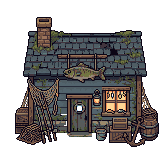
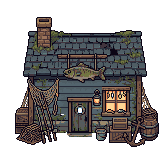
New blacksmith and two village houses from Rex; updated fishing shack picture
Houses on the back lane spaced so they clear the dirt road; the blacksmith nudged 3 px east to
clear the pet shop. Old house and carpenter pictures removed; minimap updated.

Claude-Session: https://claude.ai/code/session_01UyEsHhhwY5pbE3D4yW6PxM

Changed region(s): [[0.3869, 0.5357, 0.5655, 0.8036]]

diff --git a/docs/PROJECT_SUMMARY.md b/docs/PROJECT_SUMMARY.md
@@ -86,7 +86,8 @@ A handoff for a new Claude chat. Read this first, then `CLAUDE.md` (project rule
   (`art/bld_wizard_tower.png`, at the same scale as the other buildings, so bigger than them), and
   the potion shop is Rex's cottage (`art/bld_potion_cottage.png`), the pet shop his mossy stone
   cottage (`art/bld_pet_cottage.png`) and the fishing shop his slate-roofed shack
-  (`art/bld_fish_shack.png`). To make room for both, the village
+  (`art/bld_fish_shack.png`). The blacksmith (`art/bld_blacksmith.png`, painted smoke) and the two
+  houses on the back lane (`bld_house_red.png`, `bld_house_shutters.png`, no interiors) are his too. To make room for both, the village
   pond was moved 176 px east in total (`tools/move_pond.py`) and the cobbled street extended to
   x ~544 (`tools/extend_village_street.py`); both tools edit the ground painting in place. Moving the
   pond also means moving its collision ellipse (`world.gd`), WaterPond1, the ducks and the minimap.
